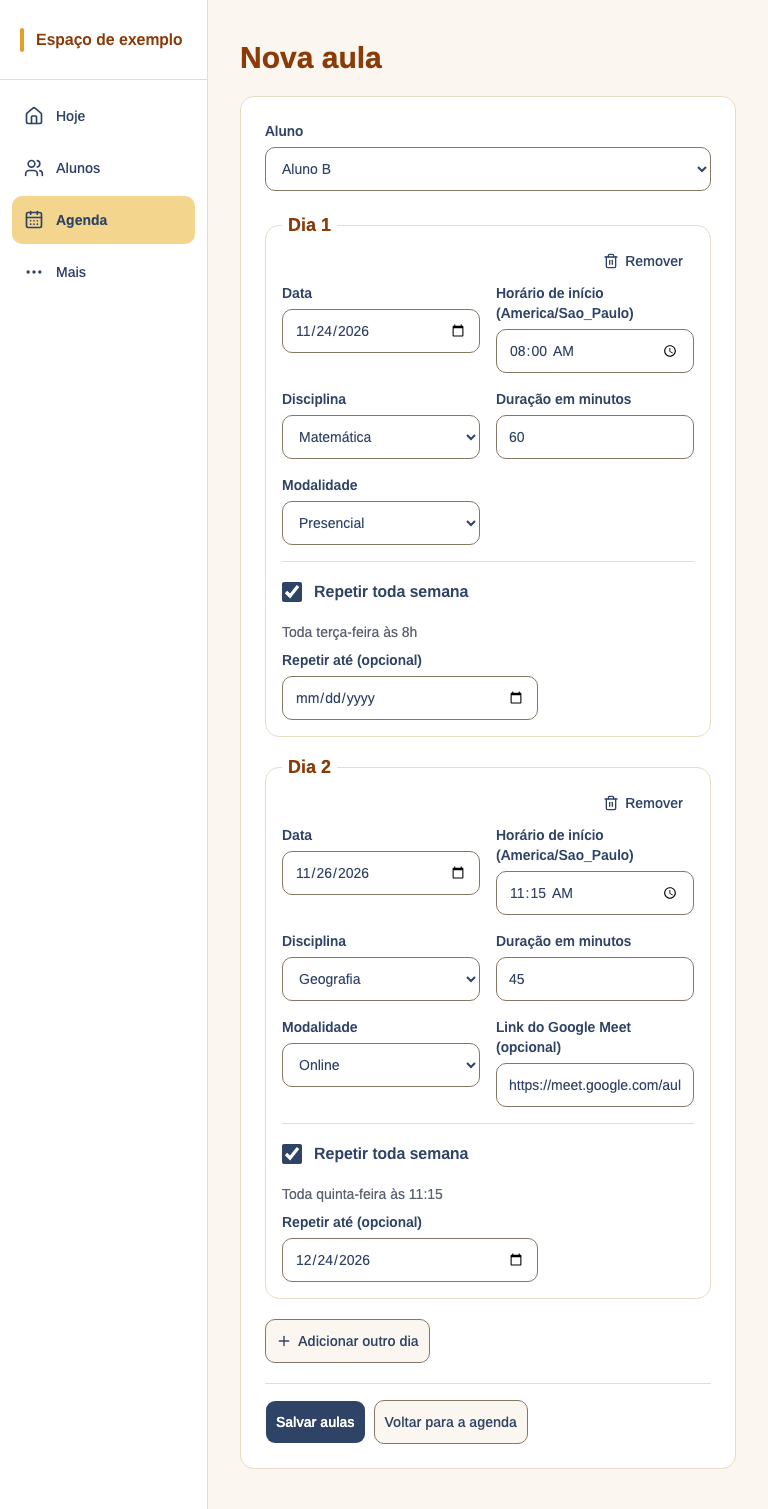
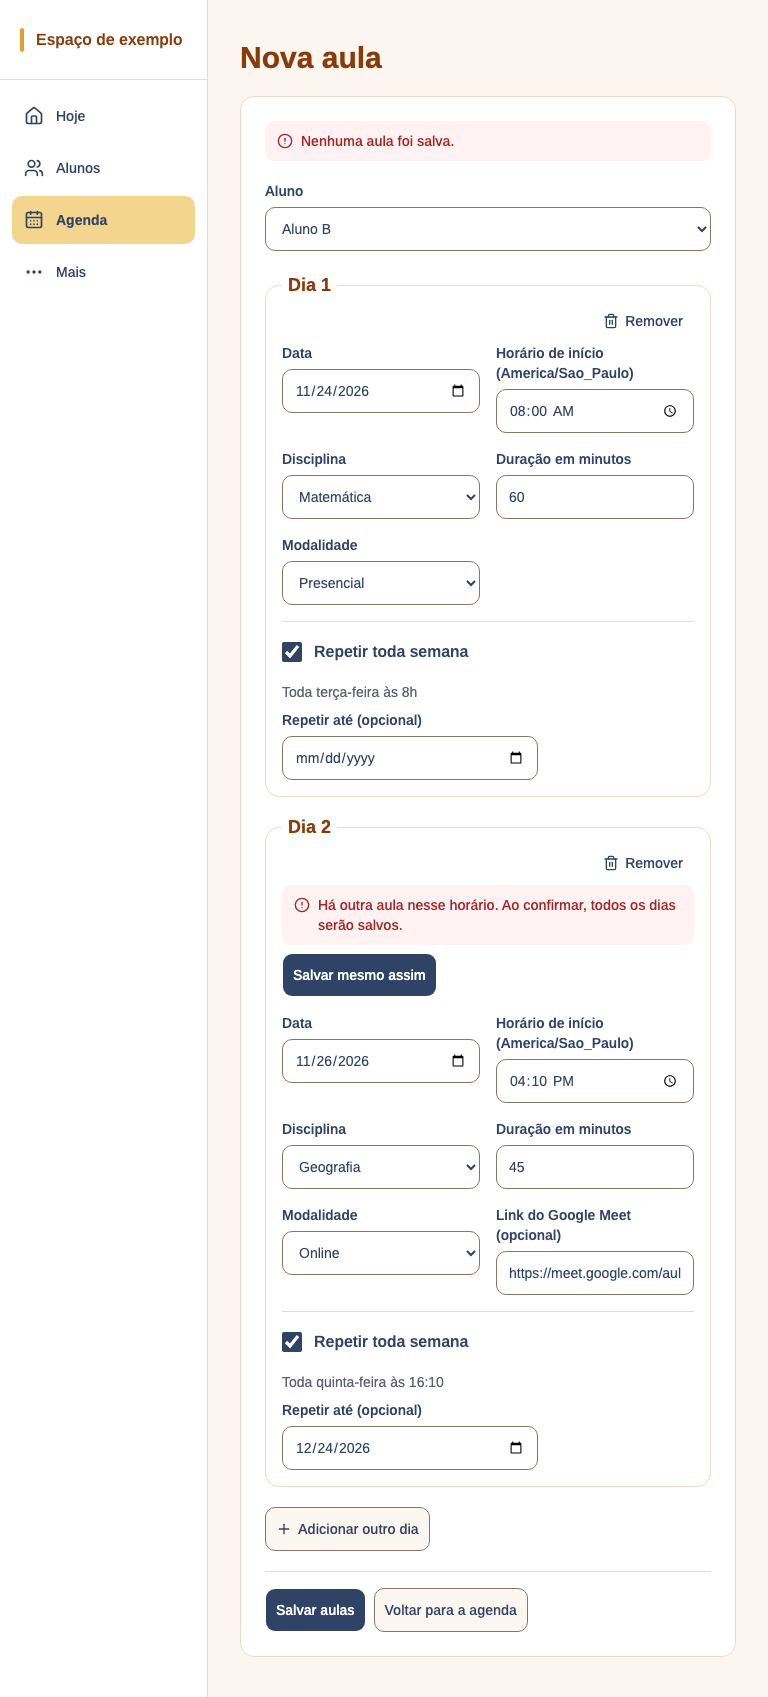
fix: permitir confirmar conflitos no cadastro de aulas

diff --git a/src/features/lessons/components/lesson-form.tsx b/src/features/lessons/components/lesson-form.tsx
@@ -207,13 +207,18 @@ export function LessonForm({
   const [studentId, setStudentId] = useState(initialValues.student_id);
   const [keys, setKeys] = useState([0]);
   const nextKey = useRef(1);
+  const [dismissedConflict, setDismissedConflict] = useState<LessonFormState>();
+  const dismissConflict = () => setDismissedConflict(state);
   return (
     <form
       action={submit}
+      onChange={dismissConflict}
       // Success redirects. On validation errors the teacher can correct just one day.
       onReset={(event) => event.preventDefault()}
       className="space-y-5"
     >
+      {/* Enter in a field always submits without confirming a conflict. */}
+      <button type="submit" hidden disabled={pending} />
       <Alert variant="error" message={state.message} />
       <fieldset disabled={pending} className="grid min-w-0 gap-5">
         <Field id="student_id" label="Aluno" error={state.studentError}>
@@ -258,13 +263,31 @@ export function LessonForm({
                     type="button"
                     variant="ghost"
                     aria-label={`Remover dia ${index + 1}`}
-                    onClick={() => setKeys(keys.filter((item) => item !== key))}
+                    onClick={() => {
+                      dismissConflict();
+                      setKeys(keys.filter((item) => item !== key));
+                    }}
                   >
                     <Trash2 aria-hidden="true" /> Remover
                   </Button>
                 </div>
               )}
               <Alert variant="error" message={state.days?.[key]?.message} />
+              {state.days?.[key]?.conflict && dismissedConflict !== state && (
+                <div className="mb-4 grid justify-items-start gap-2">
+                  <Alert
+                    variant="error"
+                    message={
+                      keys.length > 1
+                        ? "Há outra aula nesse horário. Ao confirmar, todos os dias serão salvos."
+                        : "Há outra aula nesse horário."
+                    }
+                  />
+                  <Button type="submit" name="allow_conflicts" value="true">
+                    Salvar mesmo assim
+                  </Button>
+                </div>
+              )}
               <DayFields
                 dayKey={key}
                 initialValues={initialValues}
@@ -281,7 +304,10 @@ export function LessonForm({
             className="w-fit"
             type="button"
             variant="outline"
-            onClick={() => setKeys([...keys, nextKey.current++])}
+            onClick={() => {
+              dismissConflict();
+              setKeys([...keys, nextKey.current++]);
+            }}
           >
             <Plus aria-hidden="true" /> Adicionar outro dia
           </Button>

diff --git a/src/features/lessons/actions.ts b/src/features/lessons/actions.ts
@@ -92,24 +92,41 @@ export async function saveLesson(
   const client = await createClient();
   const first = blocks[0];
   if (!id) {
-    const { error } = await client.rpc("create_lesson_days", {
+    const confirmation = z
+      .enum(["true", "false"])
+      .safeParse(form.get("allow_conflicts") ?? "false");
+    if (!confirmation.success) return { message: "Confirmação inválida." };
+    const { data: conflict, error } = await client.rpc("create_lesson_days", {
+      allow_conflicts: confirmation.data === "true",
       target_workspace_id: workspace.workspace_id,
       lesson_student_id: student.data,
       lesson_days: blocks.map((block) => block.schedule),
     });
     if (error) {
       const key = keys.data[Number(error.details) - 1];
-      const message =
-        error.code === "23P01"
-          ? "Há outra aula nesse horário. Escolha outra data ou horário."
-          : "Confira os dados deste dia e tente novamente.";
+      const isConflict =
+        error.code === "23P01" && error.message === "lesson_day_conflict";
       return {
         message: "Nenhuma aula foi salva.",
-        days: key ? { [key]: { message } } : undefined,
+        days: key
+          ? {
+              [key]: isConflict
+                ? { conflict: true }
+                : { message: "Confira os dados deste dia e tente novamente." },
+            }
+          : undefined,
       };
     }
     revalidatePath(`/alunos/${student.data}`);
     revalidatePath("/agenda");
+    if (conflict) {
+      redirect(
+        agendaHref(
+          first.date,
+          blocks.length > 1 ? "dias-conflito" : "conflito",
+        ),
+      );
+    }
     redirect(
       agendaHref(
         first.date,

diff --git a/src/app/(professora)/agenda/page.tsx b/src/app/(professora)/agenda/page.tsx
@@ -25,6 +25,7 @@ const notices = {
   reposicao: "Reposição agendada.",
   salva: "Aula salva.",
   "dias-salvos": "Todos os dias foram agendados.",
+  "dias-conflito": "Todos os dias foram agendados. Há aulas no mesmo horário.",
   conflito: "Aula salva. Há outra aula no mesmo horário.",
   cancelada: "Aula cancelada.",
   excluida: "Aula excluída.",
@@ -35,6 +36,7 @@ const notices = {
 const noticeSchema = z.enum([
   "salva",
   "dias-salvos",
+  "dias-conflito",
   "conflito",
   "cancelada",
   "reposicao",
@@ -77,11 +79,7 @@ export default async function AgendaPage({
       </header>
       {notice.success && (
         <Alert
-          variant={
-            notice.data === "conflito" || notice.data === "serie-conflito"
-              ? "info"
-              : "success"
-          }
+          variant={notice.data.endsWith("conflito") ? "info" : "success"}
           message={notices[notice.data]}
         />
       )}

diff --git a/src/types/database.ts b/src/types/database.ts
@@ -729,11 +729,12 @@ export type Database = {
       };
       create_lesson_days: {
         Args: {
+          allow_conflicts?: boolean;
           lesson_days: Json;
           lesson_student_id: string;
           target_workspace_id: string;
         };
-        Returns: undefined;
+        Returns: boolean;
       };
       create_weekly_lesson: {
         Args: {

diff --git a/src/features/lessons/form-state.ts b/src/features/lessons/form-state.ts
@@ -19,7 +19,10 @@ export type LessonFieldErrors = Partial<
 export type LessonFormState = {
   message?: string;
   studentError?: string;
-  days?: Record<string, { message?: string; fields?: LessonFieldErrors }>;
+  days?: Record<
+    string,
+    { conflict?: boolean; message?: string; fields?: LessonFieldErrors }
+  >;
 };
 
 export const lessonStatusLabels = {

diff --git a/docs/decisions/0012-cadastro-de-aulas-em-varios-dias.md b/docs/decisions/0012-cadastro-de-aulas-em-varios-dias.md
@@ -5,11 +5,13 @@
 
 ## Contexto
 
-Uma professora pode agendar vários dias para o mesmo aluno em um formulário. Um conflito em qualquer dia precisa desfazer o envio inteiro. Parte dos horários reservados por séries semanais ainda está fora das oito semanas de aulas materializadas.
+Uma professora pode agendar vários dias para o mesmo aluno em um formulário. Irmãos e grupos podem ter aulas no mesmo horário. A professora precisa distinguir essas sobreposições intencionais de um engano antes de salvar. Parte dos horários reservados por séries semanais ainda está fora das oito semanas de aulas materializadas.
 
 ## Decisão
 
 A aplicação valida os blocos e chama a função `create_lesson_days` uma vez. O Postgres adquire o bloqueio de gravação da agenda do workspace e processa os dias na ordem do formulário. Cada bloco cria uma aula avulsa ou uma série com identidade própria. Uma exceção desfaz a transação e informa a posição do bloco à aplicação.
+
+No primeiro envio, `allow_conflicts` assume o padrão `false`. Ao detectar uma sobreposição, a função lança `lesson_day_conflict` com o índice do bloco (a partir de 1) e desfaz todos os dias. O formulário preserva os valores e oferece **Salvar mesmo assim** no dia indicado. Esse botão reenvia todos os blocos com `allow_conflicts = true`. A função verifica os horários novamente e devolve se encontrou algum conflito no envio que gravou. A agenda usa esse resultado para confirmar o agendamento e avisar sobre a sobreposição. Qualquer outro erro continua desfazendo a transação inteira. [Decisão na issue #61](https://github.com/patrickt26/classroom-planner/issues/61#issuecomment-7082349978)
 
 A verificação usa as aulas existentes e projeta as ocorrências semanais no fuso do workspace. Uma ocorrência já gravada tem precedência sobre a projeção, inclusive quando foi cancelada. Para duas séries sem término, a comparação inclui um ciclo anual de mudanças de horário e mais uma semana após o início comum ou a última ocorrência já materializada, o que ocorrer por último.
 
@@ -19,4 +21,4 @@ Chamadas independentes por dia poderiam deixar a primeira série salva após um 
 
 ## Consequências
 
-A professora pode corrigir o bloco indicado e reenviar o formulário completo. A ficha do aluno e a edição individual continuam usando a identidade de cada série.
+A professora pode corrigir o horário ou confirmar as sobreposições do envio inteiro. Alterar os dados do formulário exige uma nova verificação antes de confirmar. A ficha do aluno e a edição individual continuam usando a identidade de cada série.
